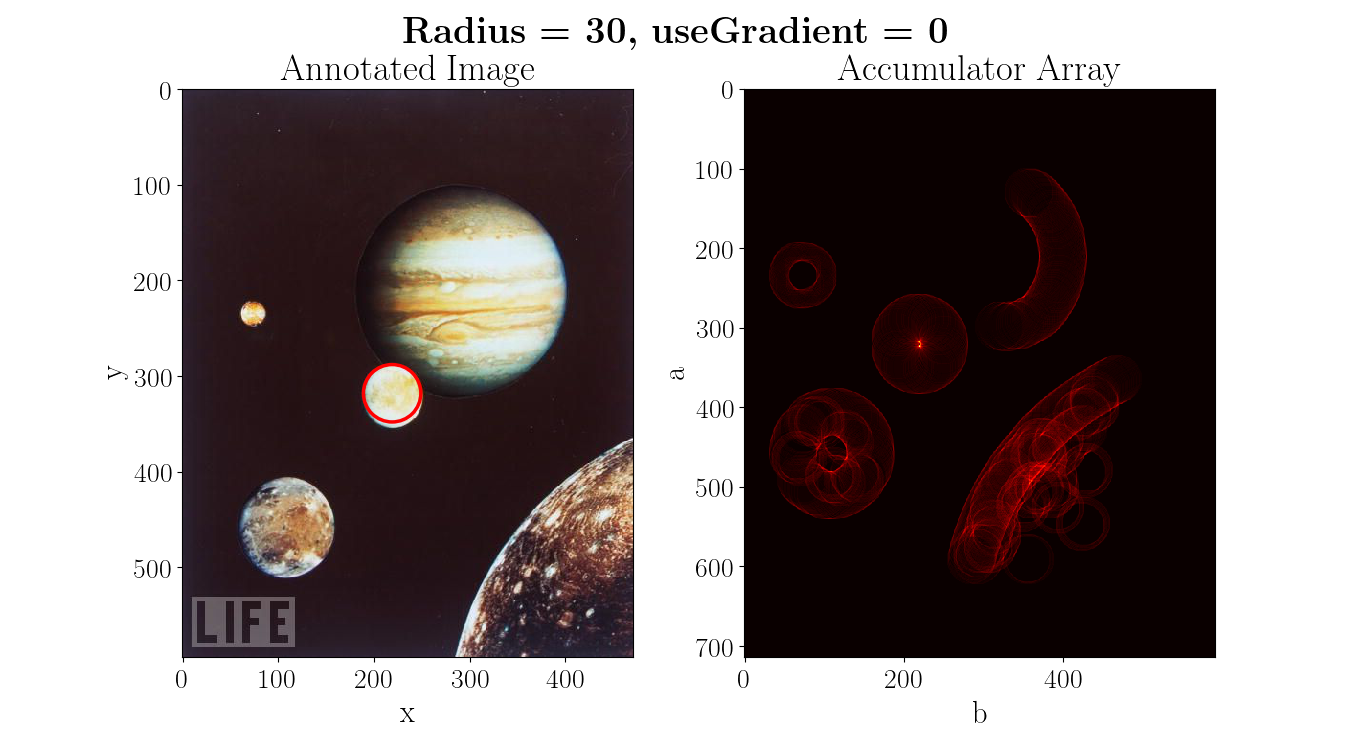
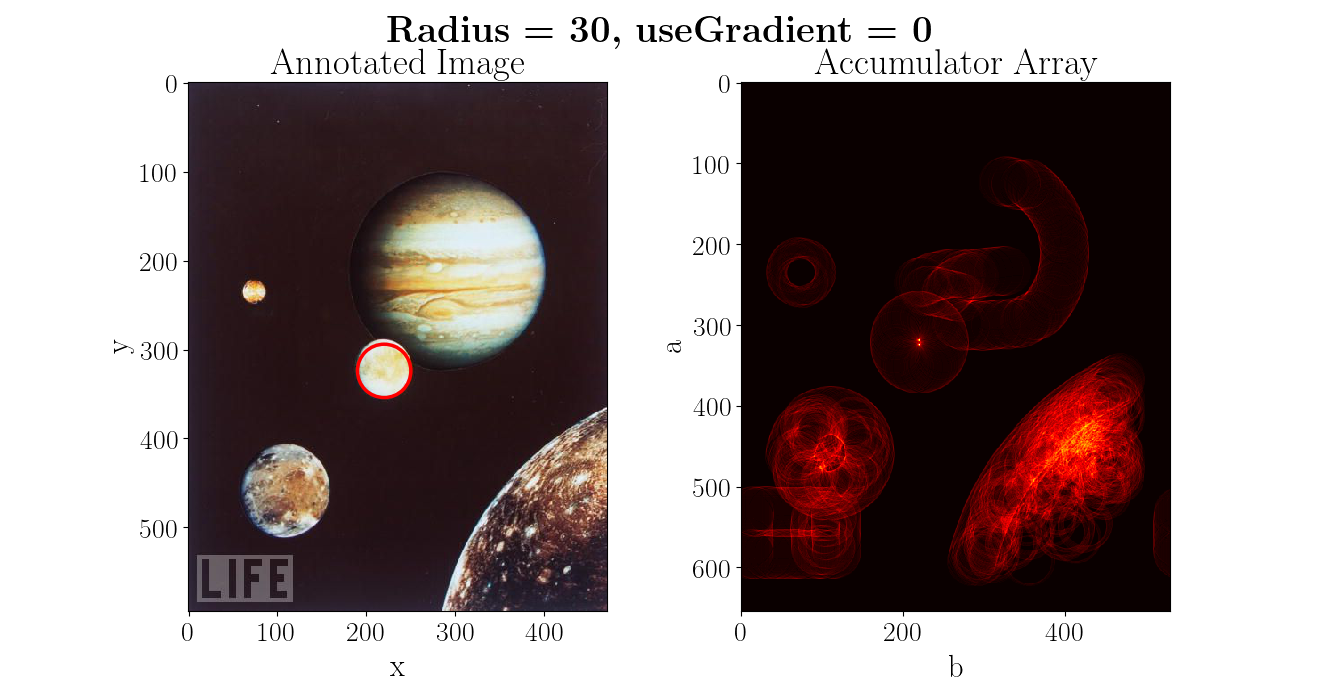
Almost all done

diff --git a/ps_2/detectCircles.py b/ps_2/detectCircles.py
@@ -14,33 +14,6 @@ from skimage.filters import gaussian, median
 __author__ = "Harsh Bhate"
 __email__ = "bhate@gatech.edu"
 
-# Helper function
-# Helper Functions
-def view_image(im):
-    """Displays image
-    Parameters
-    ----------
-    im : np.array
-        Input image
-    """
-    # Settings for LaTeX rendering
-    # Please comment if your system does not have a native 
-    # LaTeX rendering software
-    plt.rc('text', usetex=True)
-    plt.rc('font', family='serif')
-    plt.rc('xtick', labelsize=20) 
-    plt.rc('ytick', labelsize=20) 
-    font = {'family' : 'serif', 'size'   : 22}
-    plt.rc('font', **font)
-    # Plot
-    plt.imshow(im, cmap='Greys')
-    # Labels
-    plt.xlabel(r'x')
-    plt.ylabel(r'y')
-    plt.title(r'Image')
-    # Display plot
-    plt.show()
-
 def detectCircles(im, radius, useGradient):
     """Detects Circles using Hough Transform
     Parameters
@@ -65,14 +38,14 @@ def detectCircles(im, radius, useGradient):
 
     # Computing the edge pixel
     edges = canny(im,
-                sigma=1.25, 
+                sigma=1.0, 
                 low_threshold=0.3,
                 high_threshold=0.7)
     # Getting the index of edge pixel
     y, x = np.nonzero(edges)
     assert len(x)==len(y)
     # Defining the accumulator 
-    offset = 4 * radius
+    offset = 2 * radius
     acc = np.zeros((im.shape[0] + offset, im.shape[1] + offset), 
                     dtype=np.float64)
     
@@ -80,18 +53,16 @@ def detectCircles(im, radius, useGradient):
     # Part(e)
     # Uncomment this if you want to use binning techniques in finding
     # number of circles
-    nosBinsY = int((im.shape[0]+offset)/1)
-    nosBinsX = int((im.shape[1]+offset)/1)
-    binWidthY = (im.shape[0]+offset)/nosBinsY
-    binWidthX = (im.shape[1]+offset)/nosBinsX
-    acc = np.zeros((nosBinsY, nosBinsX), dtype=np.float64)
+    # nosBinsY = int((im.shape[0]+offset)/4)
+    # nosBinsX = int((im.shape[1]+offset)/4)
+    # binWidthY = (im.shape[0]+offset)/nosBinsY
+    # binWidthX = (im.shape[1]+offset)/nosBinsX
+    # acc = np.zeros((nosBinsY, nosBinsX), dtype=np.float64)
     # ***************************************************************
     # Computing without gradient
     numericalEdges = edges.astype(np.float64)
     gradY, gradX = np.gradient(numericalEdges)
     gradY = - gradY # Correction for y positioning
-    print (np.max(x))
-    print (np.max(y))
     # Computing gradient
     nosPoints = len(x)
     for i in range(nosPoints):
@@ -99,19 +70,21 @@ def detectCircles(im, radius, useGradient):
             dy = gradY[y[i], x[i]]
             dx = gradX[y[i], x[i]]
             gradAngle = np.arctan2(dy,dx)
-            thetas = [gradAngle]
+            thetas = np.linspace(gradAngle - (PI/4), 
+                        gradAngle + (PI/4), 
+                        num=180)
         else:
             thetas = np.linspace(0, 2*PI, num=360)
         for theta in thetas:
             fineA = x[i] - radius*np.cos(theta)
             fineB = y[i] + radius*np.sin(theta)
-            a = int(np.floor(fineA))    
-            b = int(np.floor(fineB))
+            a = int(np.round(fineA))    
+            b = int(np.round(fineB))
             # *******************************************************
             # Part (e)
             # Uncomment for using binning
-            a = int(np.floor(fineA/binWidthY))
-            b = int(np.floor(fineB/binWidthX))
+            # a = int(np.floor(fineA/binWidthY))
+            # b = int(np.floor(fineB/binWidthX))
             # *******************************************************
             acc[b,a] += 1
     # Setting theshold to extract candidate circles
@@ -120,10 +93,10 @@ def detectCircles(im, radius, useGradient):
     # Part(d)
     # Uncomment this if you want to use post processing in finding
     # number of circles
-    # threshold = 0.8 # Setting thresholds to allow other bright circle
-    # acc = gaussian(acc, sigma=1.0)
+    # threshold = 0.7 # Setting thresholds to allow other bright circle
+    # acc = gaussian(acc, sigma=1.5)
     # ***************************************************************
-    threshold = 1.0
+    threshold = 0.9
     centerY, centerX = np.where(acc>=(threshold*np.max(acc)))
     # ***************************************************************
     # Displaying Results for (b), please uncomment if you do not want
@@ -141,24 +114,19 @@ def detectCircles(im, radius, useGradient):
     img = imageio.imread("egg.jpg")
     # Set up figures
     fig, axes = plt.subplots(1,2)
-    print (axes.shape)
     # Displaying the annotated image
     axes[0].cla()
     axes[0].imshow(img)
     nosCandidates = len(centerX)
-    print ("binWidthX = %f, binWidthY = %f"\
-        %(binWidthX, binWidthY))
-    print (centerX)
-    print (centerY)
     for i in range(nosCandidates):
         candidateCircle = plt.Circle((centerX[i], centerY[i]), 
                         radius, color='r', fill=False, linewidth=2.5)
         # **********************************************************
         # Part (e)
         # Uncomment if you want to use binning
-        candidateCircle = plt.Circle((int(centerX[i]*binWidthX)
-                                    , int(centerY[i]*binWidthY)), 
-                        radius, color='r', fill=False, linewidth=2.5)
+        # candidateCircle = plt.Circle((int(centerX[i]*binWidthX)
+        #                             , int(centerY[i]*binWidthY)), 
+        #                 radius, color='r', fill=False, linewidth=2.5)
         # *********************************************************** 
         axes[0].add_artist(candidateCircle)
     axes[0].set_title(r"Annotated Image")
@@ -189,18 +157,6 @@ def test_detectCircles():
     radius = 8
     gradientToggle = 1
     centerY, centerX = detectCircles(grayImg, radius, gradientToggle)
-    # nosCandidates = len(centerX)
-    # fig, ax = plt.subplots(1)
-    # ax = plt.gca()
-    # ax.cla()
-    # ax.imshow(img)
-    # circles = []
-    # print (nosCandidates)
-    # for i in range(nosCandidates):
-    #     circles.append(plt.Circle((centerX[i], centerY[i]),
-    #                 radius, color='r', fill=False, linewidth=2.5))
-    #     ax.add_artist(circles[i])
-    # plt.show()
 
 # Comment if not in test mode
 if __name__=="__main__":

diff --git a/ps_2/test.py b/ps_2/test.py
@@ -1,0 +1,40 @@
+def possibleAbsoluteDifference(digit, K):
+    possibility1 = digit - K
+    possibility2 = digit + K
+    if possibility1 < 0:
+        return [possibility2]
+    if possibility2 > 9:
+        return [possibility1]
+    return [possibility1, possibility2]
+
+def solver(numArray, K, last):
+    if len(numArray) == 1:
+        return possibleAbsoluteDifference(numArray[0], last)
+    else:
+        allPoss = []
+        nos = possibleAbsoluteDifference(last, K)
+        print ("Solver")
+        print ("numArray: ", numArray)
+        print ("Nos:", nos)
+        print ("Last", last)
+        print ("len(numArray) = ", len(numArray))
+        for num in nos:
+            numArray[0] = num
+            allPoss=[num]+solver(numArray[1:], K, num)
+        return allPoss
+def numsSameConsecDiff(N, K):
+    """
+    :type N: int
+    :type K: int
+    :rtype: List[int]
+    """
+    numbers = []
+    numArray = [0 for i in range(N)]
+    numArray[0] = 1
+    last = 1
+    print (numArray)
+    numbers = [numArray[0]]+solver(numArray[1:], K, last)
+    return numbers
+
+a = numsSameConsecDiff(3,7)
+print (a)

diff --git a/ps_2/colorQuantizationMain.py b/ps_2/colorQuantizationMain.py
@@ -32,7 +32,7 @@ plt.rc('font', **font)
 origImg = imageio.imread("fish.jpg")
 
 # Quantizing for low k values, k = 5
-k = 50
+k = 5
 print ("Computing Quantized Images for k = %d"%(k))
 
 # Computing quantizations
@@ -64,7 +64,7 @@ axs[1].set_title(r'\small RGB Quantized Image$(e= %.2f)$'%(errorRGB))
 axs[2].imshow(outputHSV)
 axs[2].set_title(r'\small HSV Quantized Image $(e = %.2f)$'%(errorHSV))
 # Labels
-fig1.suptitle(r'\textbf{Quantization Output} $(k=50)$')
+fig1.suptitle(r'\textbf{Quantization Output} $(k=5)$')
 # Display plot
 fig1.tight_layout()
 fig1.show()

diff --git a/ps_2/quantizeHSV.py b/ps_2/quantizeHSV.py
@@ -87,13 +87,13 @@ def test_quantizeHSV():
     """Function to test quantizeHSV
     """
     # Toggle comments to choose test image
-    # image_path = "testImages/testImage1.png"
+    image_path = "fish.jpg"
     # image_path = "testImages/testImage2.jpg"
     # Read Image
     im = imageio.imread(image_path)
     # Qunatize Image
-    k = 20
-    outputImg, meanColors = quantizeHSV(im, k)
+    k = 4
+    outputImg, meanColors = quantizeHSV(im, k, iter=25)
     # Generate output and report
     view_image(outputImg)
     print ("REPORT")

diff --git a/ps_2/quantizeRGB.py b/ps_2/quantizeRGB.py
@@ -63,7 +63,7 @@ def quantizeRGB(origImg, k):
     # Generating a pixel matrix (reshaped image)
     pixelImg = np.reshape(origImg, (-1, c))
     # Performing k-means clustering
-    meanColors, pixelLabel = kmeans2(pixelImg, k)
+    meanColors, pixelLabel = kmeans2(pixelImg, k, iter=25)
     # Reshaping to get quantized image back
     quantizedImg = np.zeros((h,w,c))
     labelID = 0
